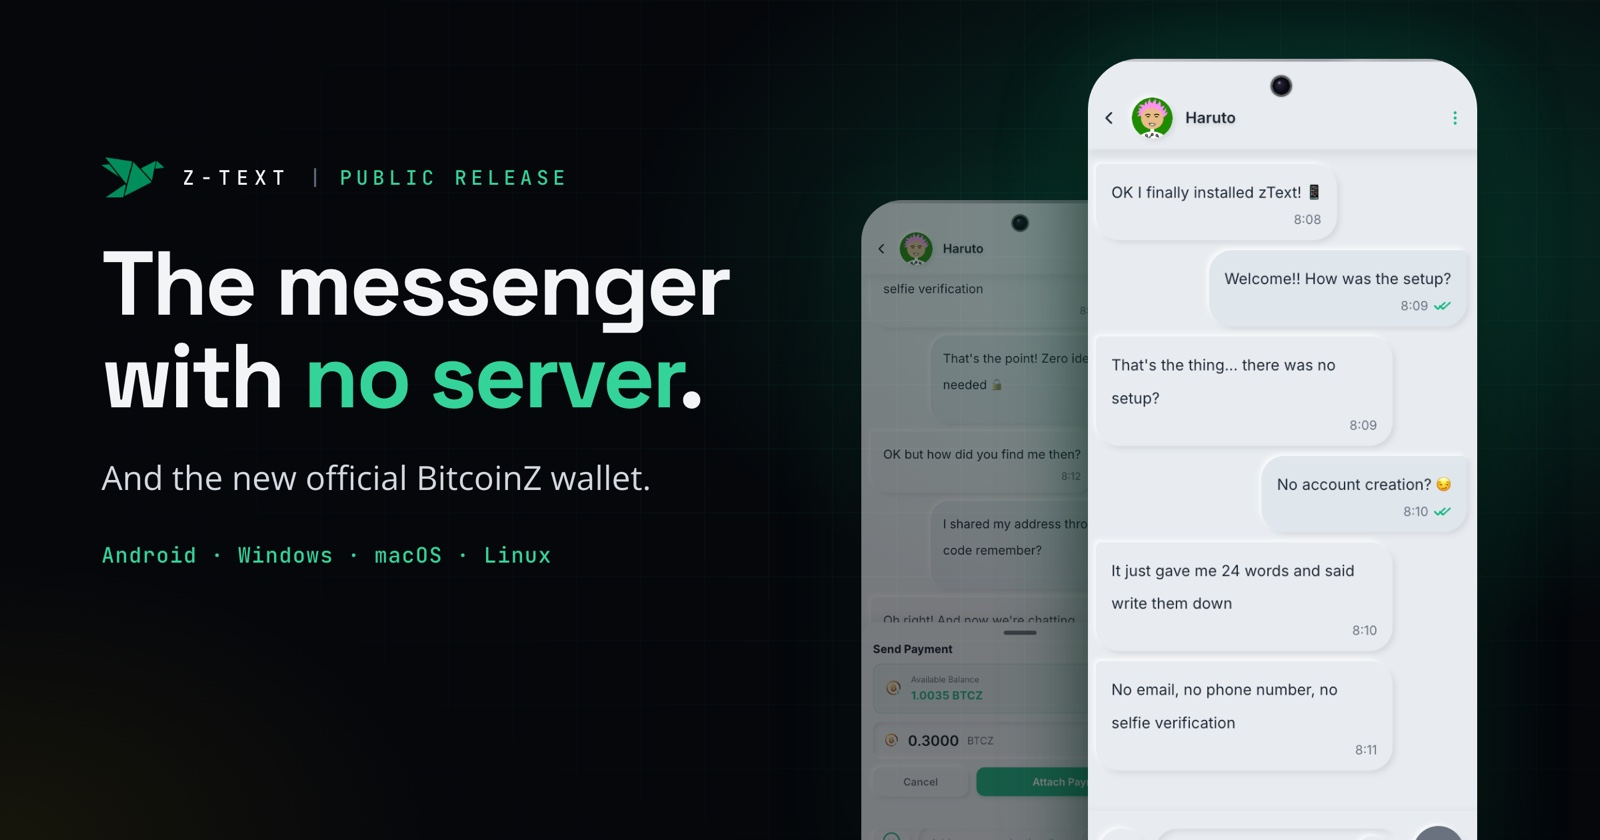
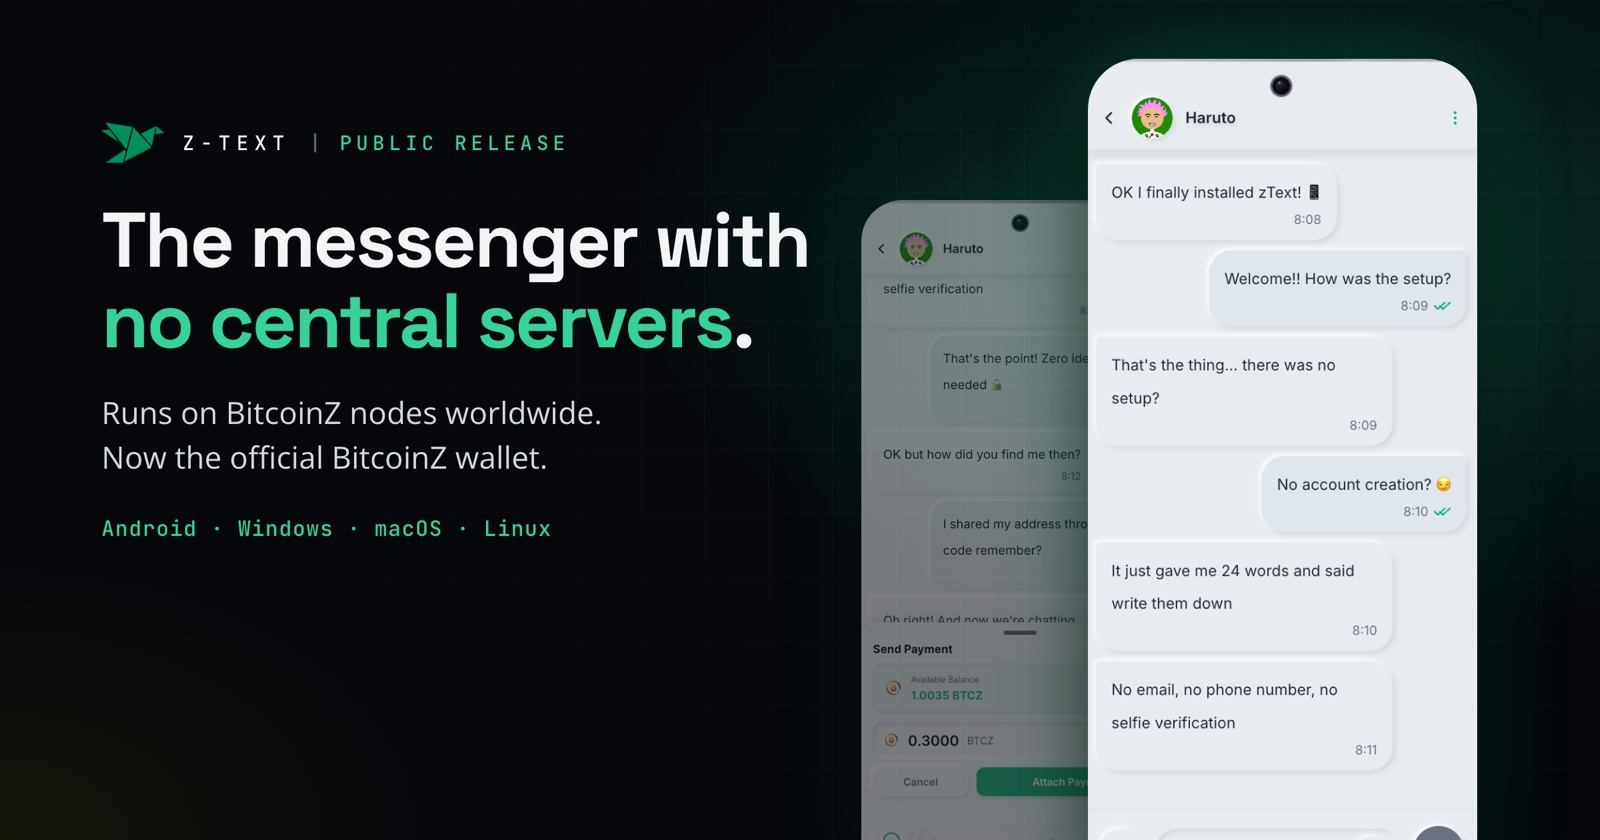
Say Z-TEXT has no central servers, not no servers
Z-TEXT does run on servers: BitcoinZ nodes spread across the world. What
it lacks is a central one. The Z-TEXT page, the release article with its
banner, and the homepage tile now say that.

diff --git a/layouts/_default/z-text.html b/layouts/_default/z-text.html
@@ -11,7 +11,7 @@
     (dict "tag" "zk-SNARKs" "title" "It becomes a transaction"
           "text" "The encrypted text rides in the memo of a shielded BitcoinZ transaction. Sender, recipient, and amount are hidden.")
     (dict "tag" "1 to 5 seconds" "title" "The network carries it"
-          "text" "BitcoinZ nodes relay it. Your contact's app picks it up from the network and never learns your IP address.")
+          "text" "BitcoinZ nodes around the world relay it. Your contact's app picks it up from the network and never learns your IP address.")
     (dict "tag" "On-chain" "title" "It stays"
           "text" "The encrypted message settles on the blockchain. Your 24-word seed reads it back on any device.")
 }}
@@ -21,7 +21,7 @@
           "text" "Your identity is a wallet seed, not a SIM card. There is nothing to register and nothing that ties the account to you."
           "icon" "M12 18h.01M8 21h8a2 2 0 002-2V5a2 2 0 00-2-2H8a2 2 0 00-2 2v14a2 2 0 002 2z")
     (dict "title" "Nothing to seize or switch off"
-          "text" "Messages are never stored on a Z-TEXT server. If the company behind the app vanished tomorrow, messaging would keep running on the public network."
+          "text" "No central server holds your messages. They travel through BitcoinZ nodes spread across the world, so if the company behind the app vanished tomorrow, messaging would keep running."
           "icon" "M5 12h14M5 12a2 2 0 01-2-2V6a2 2 0 012-2h14a2 2 0 012 2v4a2 2 0 01-2 2M5 12a2 2 0 00-2 2v4a2 2 0 002 2h14a2 2 0 002-2v-4a2 2 0 00-2-2m-2-4h.01M17 16h.01")
     (dict "title" "Two locks on every message"
           "text" "AES-256-GCM on your device, then a shielded transaction on top. Both layers have to be broken to read a single message."
@@ -48,7 +48,7 @@
 
 {{ $compare := slice
     (dict "what" "Who you are"              "them" "A phone number"                     "zt" "A 24-word seed that only you hold")
-    (dict "what" "Where messages travel"    "them" "Through the company's servers"      "zt" "Through BitcoinZ nodes")
+    (dict "what" "Where messages travel"    "them" "Through the company's servers"      "zt" "Through BitcoinZ nodes worldwide")
     (dict "what" "Where history lives"      "them" "Company servers or a cloud backup"  "zt" "Encrypted on the BitcoinZ blockchain")
     (dict "what" "Who can close your account" "them" "The company"                      "zt" "No one. There is no account")
     (dict "what" "What the operator sees"   "them" "Often who talks to whom, and when"  "zt" "That a shielded transaction was submitted")
@@ -81,10 +81,10 @@
         <div class="zx-wrap zx-hero-grid">
             <div>
                 <p class="zx-eyebrow"><span class="zx-dot"></span><span class="zx-nb">Z-TEXT</span> <span class="zx-eyebrow-sep">|</span> Built on BitcoinZ</p>
-                <h1 class="zx-h1">The messenger with <span class="zx-green">no server</span> to shut down.</h1>
+                <h1 class="zx-h1">The messenger with <span class="zx-green">no central servers</span>.</h1>
                 <p class="zx-lead">
-                    <span class="zx-nb">Z-TEXT</span> sends every message as a shielded BitcoinZ transaction. No phone number, no email,
-                    and no company holding your conversations.
+                    <span class="zx-nb">Z-TEXT</span> runs on BitcoinZ nodes spread across the world. Every message is a shielded
+                    BitcoinZ transaction. No phone number, no email, and no company holding your conversations.
                 </p>
                 <div class="zx-actions">
                     <a href="{{ $download }}" target="_blank" rel="noopener noreferrer" class="zx-btn zx-btn-primary">
@@ -116,11 +116,12 @@
     <section id="different" class="zx-section">
         <div class="zx-wrap">
             <p class="zx-kicker">The one idea</p>
-            <h2 class="zx-h2">Every other messenger keeps a server. <span class="zx-nb">Z-TEXT</span> does not.</h2>
+            <h2 class="zx-h2">Other messengers run on company servers. <span class="zx-nb">Z-TEXT</span> runs on BitcoinZ nodes worldwide.</h2>
             <p class="zx-sub">
                 Signal, WhatsApp, and Telegram all pass your messages through servers their company runs.
-                <span class="zx-nb">Z-TEXT</span> has none in the message path. A message is encrypted on your device and broadcast
-                as a shielded transaction on the BitcoinZ blockchain, the same way BTCZ itself is sent.
+                <span class="zx-nb">Z-TEXT</span> has no central server in the message path. A message is encrypted on your device and
+                broadcast as a shielded transaction to the BitcoinZ network, where independent nodes spread
+                across the world relay it, the same way BTCZ itself is sent.
             </p>
 
             <ol class="zx-steps">
@@ -140,7 +141,7 @@
     <section class="zx-section zx-section-alt">
         <div class="zx-wrap">
             <p class="zx-kicker">Why it is unique</p>
-            <h2 class="zx-h2">What a blockchain messenger can do that a server cannot</h2>
+            <h2 class="zx-h2">What a blockchain messenger can do that a central server cannot</h2>
 
             <div class="zx-features">
                 {{ range $features }}
@@ -193,7 +194,7 @@
                 </p>
             </div>
             <ul class="zx-checks">
-                <li><strong>Impossible to deplatform.</strong> There is no server to seize and no account to suspend.</li>
+                <li><strong>Impossible to deplatform.</strong> There is no central server to seize and no account to suspend.</li>
                 <li><strong>No subscriber list to leak.</strong> zk-SNARKs hide who posted, and no central database of followers exists.</li>
                 <li><strong>You own your audience.</strong> Channels and their history restore from your seed on any device.</li>
             </ul>

diff --git a/layouts/index.html b/layouts/index.html
@@ -202,7 +202,7 @@ html {
                     <span class="zt-title">Speak freely,<br>forever.</span>
 
                     <span class="zt-claims">
-                        <span>No phone number</span><span class="zt-dot"></span><span>No email</span><span class="zt-dot"></span><span>No server</span>
+                        <span>No phone number</span><span class="zt-dot"></span><span>No email</span><span class="zt-dot"></span><span>No central server</span>
                     </span>
 
                     <span class="zt-rule"></span>

diff --git a/content/news/2026-10-06-z-text-is-live-messenger-and-official-bitcoinz-wallet.md b/content/news/2026-10-06-z-text-is-live-messenger-and-official-bitcoinz-wallet.md
@@ -17,9 +17,9 @@ type: "news"
 
 We [first wrote about Z-TEXT in February](/news/2026-02-25-ztext-encrypted-blockchain-messenger/), when it was still in developer testing. It has since been released to the public, and anyone can install it.
 
-## A messenger with no server
+## A messenger with no central servers
 
-Most messengers pass your messages through servers that their company runs. Z-TEXT has none in the message path. Each message is encrypted on your device and sent as a shielded BitcoinZ transaction, the same way BTCZ itself moves.
+Most messengers pass your messages through servers that their company runs. Z-TEXT has no central server in the message path. It runs on BitcoinZ nodes spread across the world. Each message is encrypted on your device and sent as a shielded BitcoinZ transaction, the same way BTCZ itself moves.
 
 That one design choice changes a lot:
 
@@ -42,7 +42,7 @@ Z-TEXT is also a full BTCZ wallet, and it is now the official one: stable, fast,
 
 ## More than chat
 
-- **On-chain channels.** Broadcast to any number of subscribers for the price of a single transaction. There is no server to seize and no account to suspend.
+- **On-chain channels.** Broadcast to any number of subscribers for the price of a single transaction. There is no central server to seize and no account to suspend.
 - **Panic PIN and stealth mode.** An emergency PIN wipes keys, messages, and contacts in one action. Stealth mode re-skins the app so it does not look like a messenger.
 - **Post-quantum handshake.** Every contact handshake combines X25519 with ML-KEM-768, protecting the key exchange against a future quantum computer.
 - **On-chain vault.** A password manager whose entries are encrypted on your device and restore from your seed.

diff --git a/content/z-text/_index.md b/content/z-text/_index.md
@@ -1,7 +1,7 @@
 ---
-title: "Z-TEXT: The Messenger With No Server to Shut Down"
+title: "Z-TEXT: The Messenger With No Central Servers"
 linkTitle: "Z-TEXT"
-description: "Z-TEXT sends every message as a shielded BitcoinZ transaction. No phone number, no email, no central message server, and a 24-word seed that restores every conversation."
+description: "Z-TEXT has no central servers. It runs on BitcoinZ nodes spread across the world and sends every message as a shielded BitcoinZ transaction. No phone number, no email, and a 24-word seed that restores every conversation."
 keywords: "Z-TEXT, BitcoinZ messenger, zk-SNARKs messenger, private messenger, no phone number, decentralized messaging, shielded transactions"
 date: 2026-10-06T00:00:00Z
 draft: false
